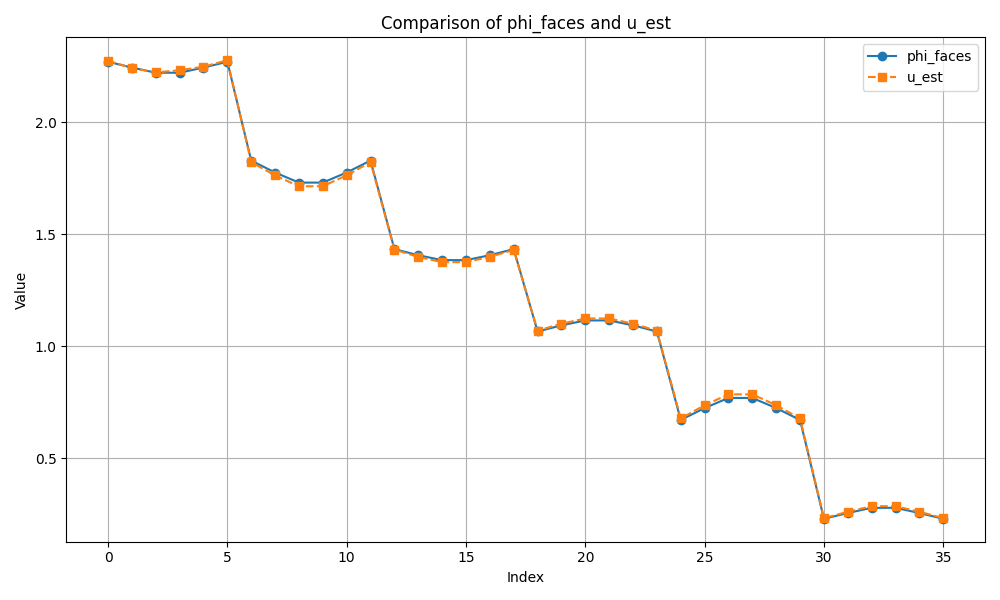
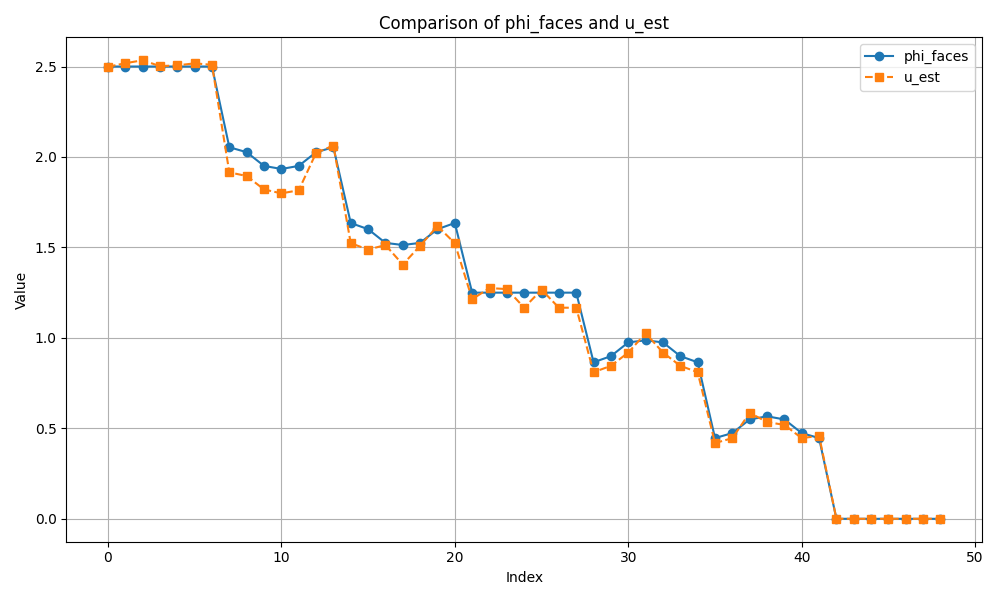
many changes now d0 0-cochain problems work

diff --git a/ddec/DDEC_Net.py b/ddec/DDEC_Net.py
@@ -4,7 +4,7 @@ import torch.nn.init as init
 from torch.autograd.functional import jvp
 
 class PerturbNet(nn.Module):
-    def __init__(self, N, hidden_dim=20, device='cuda'):
+    def __init__(self, N, hidden_dim=5, device='cuda'):
         super(PerturbNet, self).__init__()
         self.hidden_dim = hidden_dim
         self.device = device
@@ -50,12 +50,12 @@ class PerturbNet(nn.Module):
 
 
 class DDECModel(nn.Module):
-    def __init__(self, iter, tol, in_dim, out_dim, properties, device='cuda'):
+    def __init__(self, iter, tol, in_dim, out_dim, properties, cochain=2, device='cuda'):
         super(DDECModel, self).__init__()
         self.device = device
         if device == 'cuda' and not torch.cuda.is_available():
             self.device = 'cpu'
-        
+        self.cochain = cochain
         self.iter = iter
         self.tol = tol
         self.in_dim = in_dim
@@ -73,9 +73,10 @@ class DDECModel(nn.Module):
         self.nn_contrib = 0
     
         self.device = self.d1.device
-
+        self.B0_vals = nn.Parameter(torch.randn(self.d0.shape[1]))
         self.B1_vals = nn.Parameter(torch.randn(self.d1.shape[1]))
         self.B2_vals = nn.Parameter(torch.randn(self.d1.shape[0]))
+        self.D0_vals = nn.Parameter(torch.randn(self.d0.shape[1]))
         self.D1_vals = nn.Parameter(torch.randn(self.d1.shape[1]))
         self.D2_vals = nn.Parameter(torch.randn(self.d1.shape[0]))
 
@@ -87,17 +88,27 @@ class DDECModel(nn.Module):
         Returns: 
             torch.Tensor: The Hodge Laplacian operator K.  
         """
+        B0 = torch.diag(self.B0_vals**2 + 1e-5 * torch.ones_like(self.B0_vals)).to(dtype=torch.float64, device=self.device)
         B1 = torch.diag(self.B1_vals**2 + 1e-5 * torch.ones_like(self.B1_vals)).to(dtype=torch.float64, device=self.device)
         B2 = torch.diag(self.B2_vals**2).to(dtype=torch.float64, device=self.device)  
+        D0 = torch.diag(self.D0_vals**2 + 1e-5 * torch.ones_like(self.D0_vals)).to(dtype=torch.float64, device=self.device)
         D1 = torch.diag(self.D1_vals**2 + 1e-5 * torch.ones_like(self.D1_vals)).to(dtype=torch.float64, device=self.device)
         D2 = torch.diag(self.D2_vals**2).to(dtype=torch.float64, device=self.device) 
+        B0_inv = torch.inverse(B0)
         B1_inv = torch.inverse(B1)
+        D0_inv = torch.inverse(D0)
         D1_inv = torch.inverse(D1)
 
-        self.DIV = B2 @ self.d1 @ B1_inv
-        self.GRAD_s = D1_inv @ self.d1.T @ D2
-        K = self.DIV@self.GRAD_s
-        K = K + 1e-6*torch.eye(K.shape[0]).to(dtype=torch.float64, device=self.device) 
+        if self.cochain == 2:
+            self.DIV = B2 @ self.d1 @ B1_inv
+            self.GRAD_s = D1_inv @ self.d1.T @ D2
+            K = self.DIV@self.GRAD_s
+            K = K + 1e-6*torch.eye(K.shape[0]).to(dtype=torch.float64, device=self.device)
+        if self.cochain == 0:
+            CURL = B1 @ self.d0 @ B0_inv
+            CURL_s = D0_inv @ self.d0.T @ D1
+            K = CURL_s @CURL
+            K = K + 5*torch.eye(K.shape[0]).to(dtype=torch.float64, device=self.device)
         return K
 
 
@@ -161,4 +172,11 @@ class DDECModel(nn.Module):
 
         lambda_adj = torch.linalg.solve(J.T, 2*(self.phi_faces - u_new))
         return lambda_adj
+    
+    def forward_eval(self,f):
+        """
+        Forward pass for evaluation (not iterative)
+        """
+        K = self.compute_hodge_laplacian()
+        return torch.linalg.solve(K,f)
 

diff --git a/ddec/train.py b/ddec/train.py
@@ -5,6 +5,38 @@ import torch
 from tqdm import tqdm
 from utils import *
 
+def plot_contour(arr1, arr2, title1='Array 1', title2='Array 2', cmap='viridis'):
+    """
+    Plot two 2D arrays as contour plots side by side.
+    
+    Args:
+        arr1 (np.ndarray or torch.Tensor): First 2D array.
+        arr2 (np.ndarray or torch.Tensor): Second 2D array.
+        title1 (str): Title for the first plot.
+        title2 (str): Title for the second plot.
+        cmap (str): Colormap to use (default 'viridis').
+    """
+    if hasattr(arr1, 'detach'):  # convert torch.Tensor to numpy if needed
+        arr1 = arr1.detach().cpu().numpy()
+    if hasattr(arr2, 'detach'):
+        arr2 = arr2.detach().cpu().numpy()
+        
+    fig, axes = plt.subplots(1, 2, figsize=(12, 5))
+    
+    for ax, arr, title in zip(axes, [arr1, arr2], [title1, title2]):
+        n, m = arr.shape
+        x = np.linspace(0, 1, m)
+        y = np.linspace(0, 1, n)
+        X, Y = np.meshgrid(x, y)
+        contour = ax.contourf(X, Y, arr, 20, cmap=cmap)
+        fig.colorbar(contour, ax=ax)
+        ax.set_title(title)
+        ax.set_xlabel('x')
+        ax.set_ylabel('y')
+        ax.set_aspect('equal')
+    
+    plt.tight_layout()
+    plt.show()
 
 def train_main(N, alpha, iter, tol, epsilon, in_dim, out_dim, epochs, problem_type, lr,show_plot=False):
 
@@ -14,20 +46,25 @@ def train_main(N, alpha, iter, tol, epsilon, in_dim, out_dim, epochs, problem_ty
     d1 = d1.to(device=device)
     properties = {'d0': d0, 'd1': d1}
 
-    model = DDECModel(iter, tol, in_dim, out_dim, properties)
+    model = DDECModel(iter, tol, in_dim, out_dim, properties, cochain=0)
 
-    perturb = PerturbNet((N-1)*(N-1), 20, device=device)
+    perturb = PerturbNet((N)*(N), 50, device=device)
     optimizer = torch.optim.Adam(list(model.parameters())+list(perturb.parameters()), lr=lr)
     criterion = torch.nn.MSELoss()
     losses = []
     epochs = epochs
 
-    u = make_u(N)
+    #u = make_u(N)
+    u = abs(torch.randn((N)*(N), dtype=torch.float64, requires_grad=True))
 
     print(f"Using device: {device}")
     model = model.to(device)
     u = u.to(device)
     perturb = perturb.to(device)
+
+    # with torch.no_grad():
+    #     for p in [model.B0_vals, model.B1_vals, model.B2_vals, model.D0_vals, model.D1_vals, model.D2_vals]:
+    #         p.clamp_(0, 1)
 
     with tqdm(total= epochs, desc="Training", unit="epoch", colour='green') as pbar:
         for epoch in range(epochs):
@@ -73,13 +110,17 @@ def train_main(N, alpha, iter, tol, epsilon, in_dim, out_dim, epochs, problem_ty
         phi_faces = phi_faces.to(device)
         model.f = f.clone().detach().requires_grad_(True)
         model.phi_faces = phi_faces.clone().detach().requires_grad_(True)
-        u_it = model.forward(u, f)
+        u_it = model.forward_eval(f)
         error = perturb.forward(f)
         u_est = u_it + epsilon * error.squeeze(-1).squeeze(-1)
+
+        phi_faces = phi_faces.view(N,N).t()
+        u_est = u_est.view(N,N).t()
         phi_faces = phi_faces.cpu()
         u_est = u_est.cpu()
 
-        plot_results(phi_faces, u_est, N, problem_type,alpha,show_plot=show_plot)
+        #plot_results(phi_faces, u_est, N, problem_type,alpha,show_plot=show_plot)
+        plot_contour(u_est, phi_faces)
     np.savez('../results/losses.npz', losses=losses)
 
     return losses  

diff --git a/ddec/utils.py b/ddec/utils.py
@@ -77,18 +77,20 @@ def dataset_generation(N, problem_type='D1',alpha=1.0):
         for alph in [1,2,4]:
             G = darcy_mod.create_darcy_dataset(n=N, problem_type=problem_type, alphas=[alph])
             node_phi = nx.get_node_attributes(G, 'phi')
-            phi = torch.tensor(list(node_phi.values()), dtype=torch.float64)
+            phi = torch.tensor(list(node_phi.values()), dtype=torch.float64).requires_grad_(True)
+            print(f"phi shape: {phi.shape}")
 
             d0 = ddec.cobound_d0(G)
             d1 = ddec.cobound_d1(G)
-            phi_faces = ddec.convert_cochain(phi, N, degree=2).clone().detach().requires_grad_(True)
+            #phi_faces = ddec.convert_cochain(phi, N, degree=2).clone().detach().requires_grad_(True)
 
             f = torch.zeros((N*N,), dtype=torch.float64)
             f_n = set_boundary_conditions(G, f, problem_type=problem_type, alpha=alph)
-            f_n = ddec.convert_cochain(f_n, N, degree=2)
+            #f_n = ddec.convert_cochain(f_n, N, degree=2)
 
             f = f_n.clone().detach().requires_grad_(True)
-            batches.append((f, phi_faces,alph))
+            #batches.append((f, phi_faces,alph))
+            batches.append((f,phi,alph))
     
     if problem_type == 'test':
         for alph in [3,2.5,5]:
@@ -98,19 +100,20 @@ def dataset_generation(N, problem_type='D1',alpha=1.0):
 
             d0 = ddec.cobound_d0(G)
             d1 = ddec.cobound_d1(G)
-            phi_faces = ddec.convert_cochain(phi, N, degree=2).clone().detach().requires_grad_(True)
+            #phi_faces = ddec.convert_cochain(phi, N, degree=2).clone().detach().requires_grad_(True)
 
             f = torch.zeros((N*N,), dtype=torch.float64)
             f_n = set_boundary_conditions(G, f, problem_type=problem_type, alpha=alph)
-            f_n = ddec.convert_cochain(f_n, N, degree=2)
+            #f_n = ddec.convert_cochain(f_n, N, degree=2)
 
             f = f_n.clone().detach().requires_grad_(True)
-            batches.append((f, phi_faces,alph))
+            #batches.append((f, phi_faces,alph))
+            batches.append((f,phi,alph))
     
     return batches, d0, d1
 
 def make_u(N):
-    u = abs(torch.randn((N-1)*(N-1), dtype=torch.float64, requires_grad=True))
+    u = abs(torch.randn((N)*(N), dtype=torch.float64, requires_grad=True))
     for i in range(u.shape[0]):
         if (u[i] >= 0):
             u[i] = min(0.75, u[i])

diff --git a/ddec/TrainerConfig.py b/ddec/TrainerConfig.py
@@ -1,0 +1,18 @@
+#trainer config dataclass
+from dataclasses import dataclass
+
+@dataclass
+class TrainerConfig:
+    N: int = 6
+    alpha: float = 1
+    iter: int = 1000
+    tol: float = 1e-10
+    epsilon: float = 0.01
+    in_dim: int = 2
+    out_dim: int = 1
+    epochs: int = 100
+    problem_type: str = 'D1'
+    lr: float = 0.001
+    show_plot: bool = False
+    loss_compare: bool = False
+    verbose: bool = False
